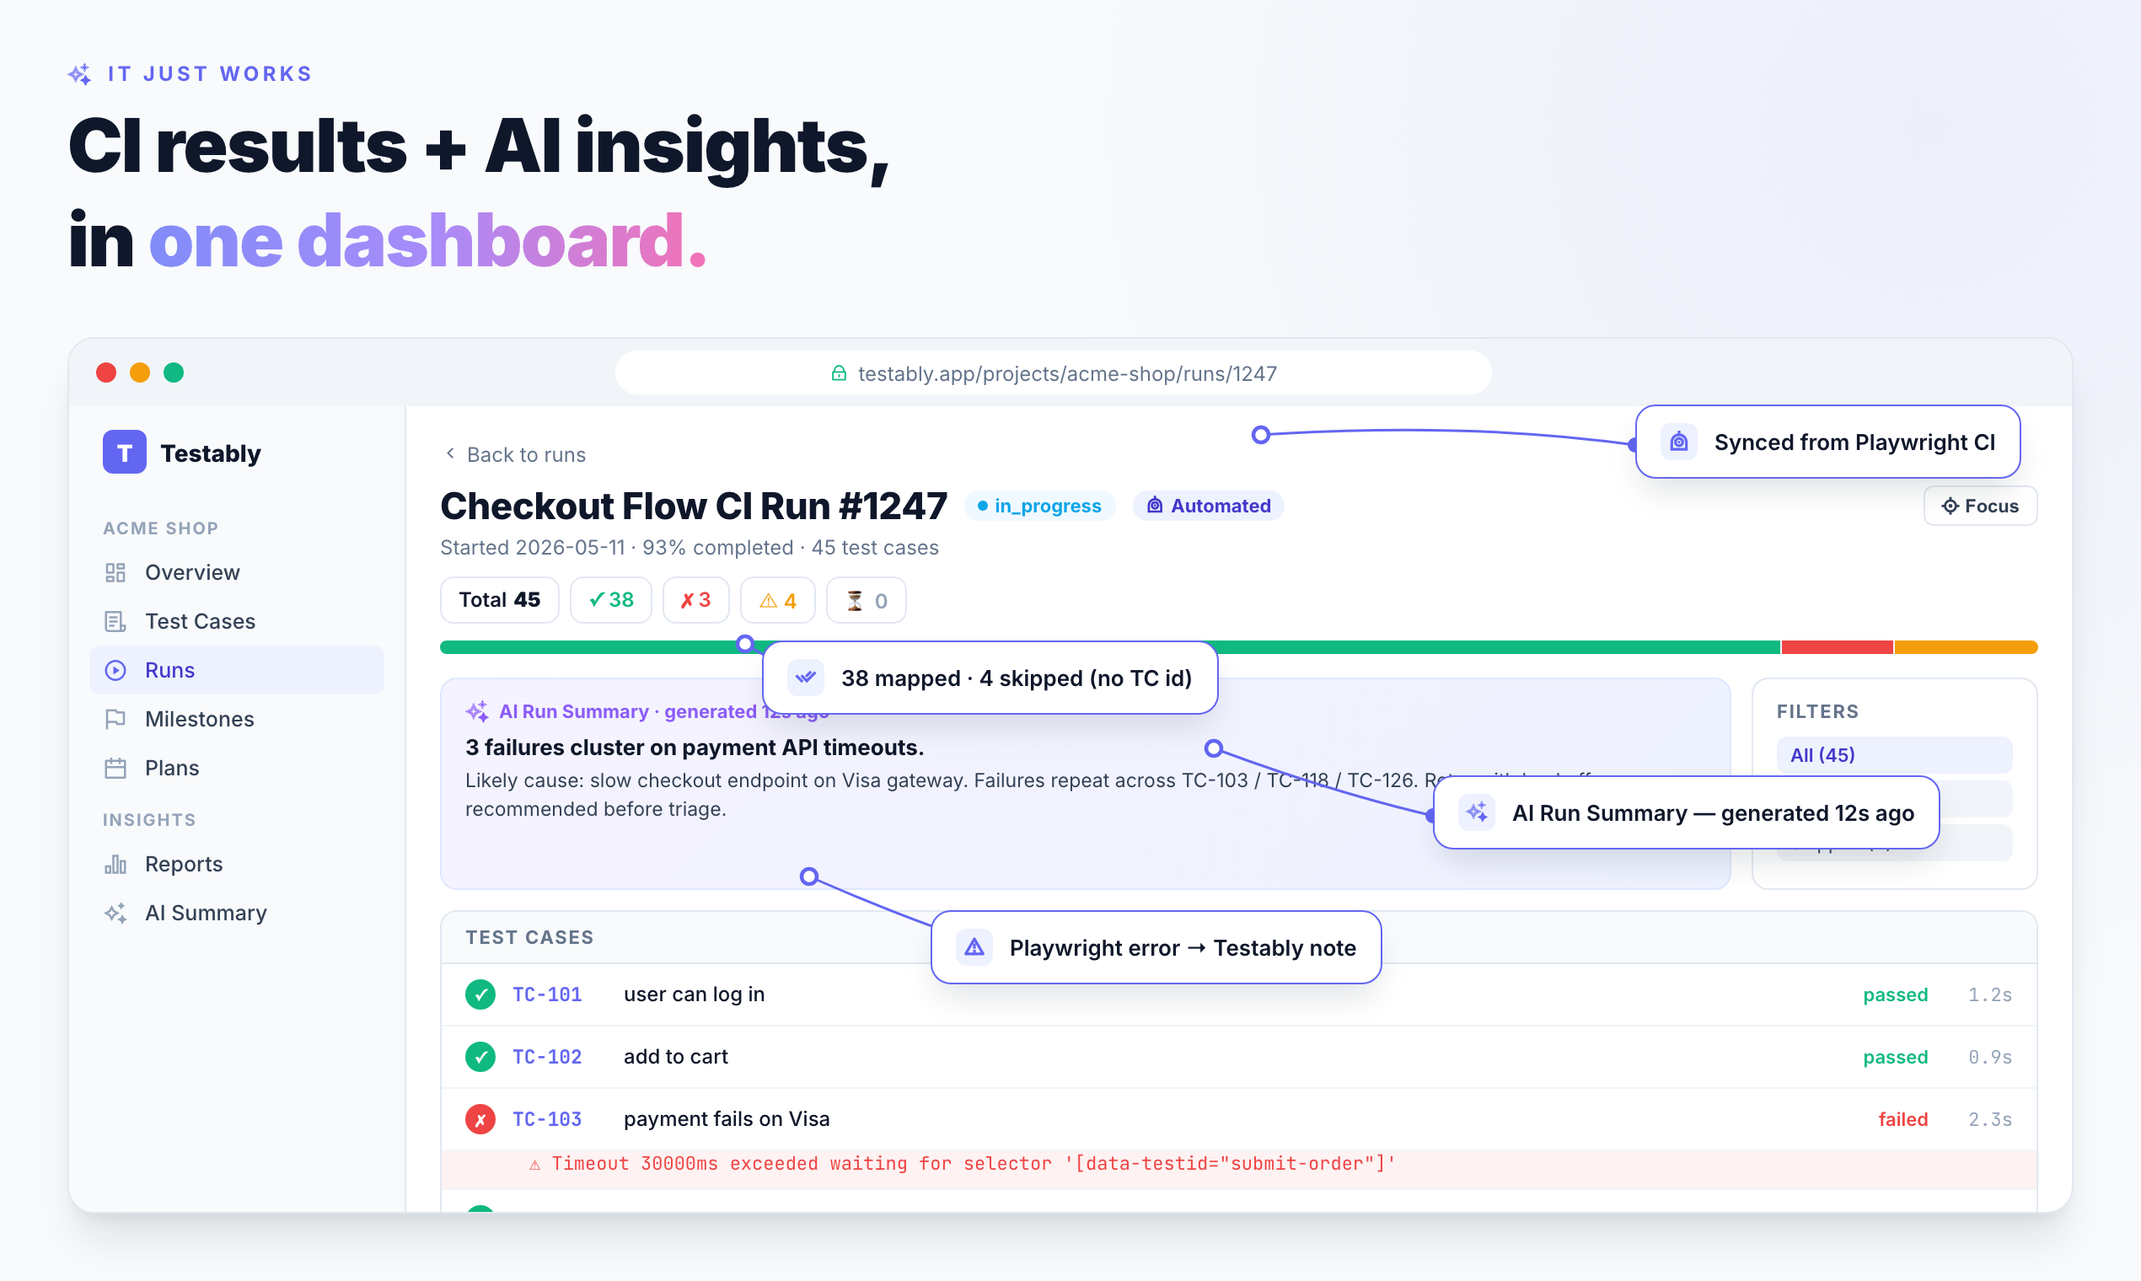
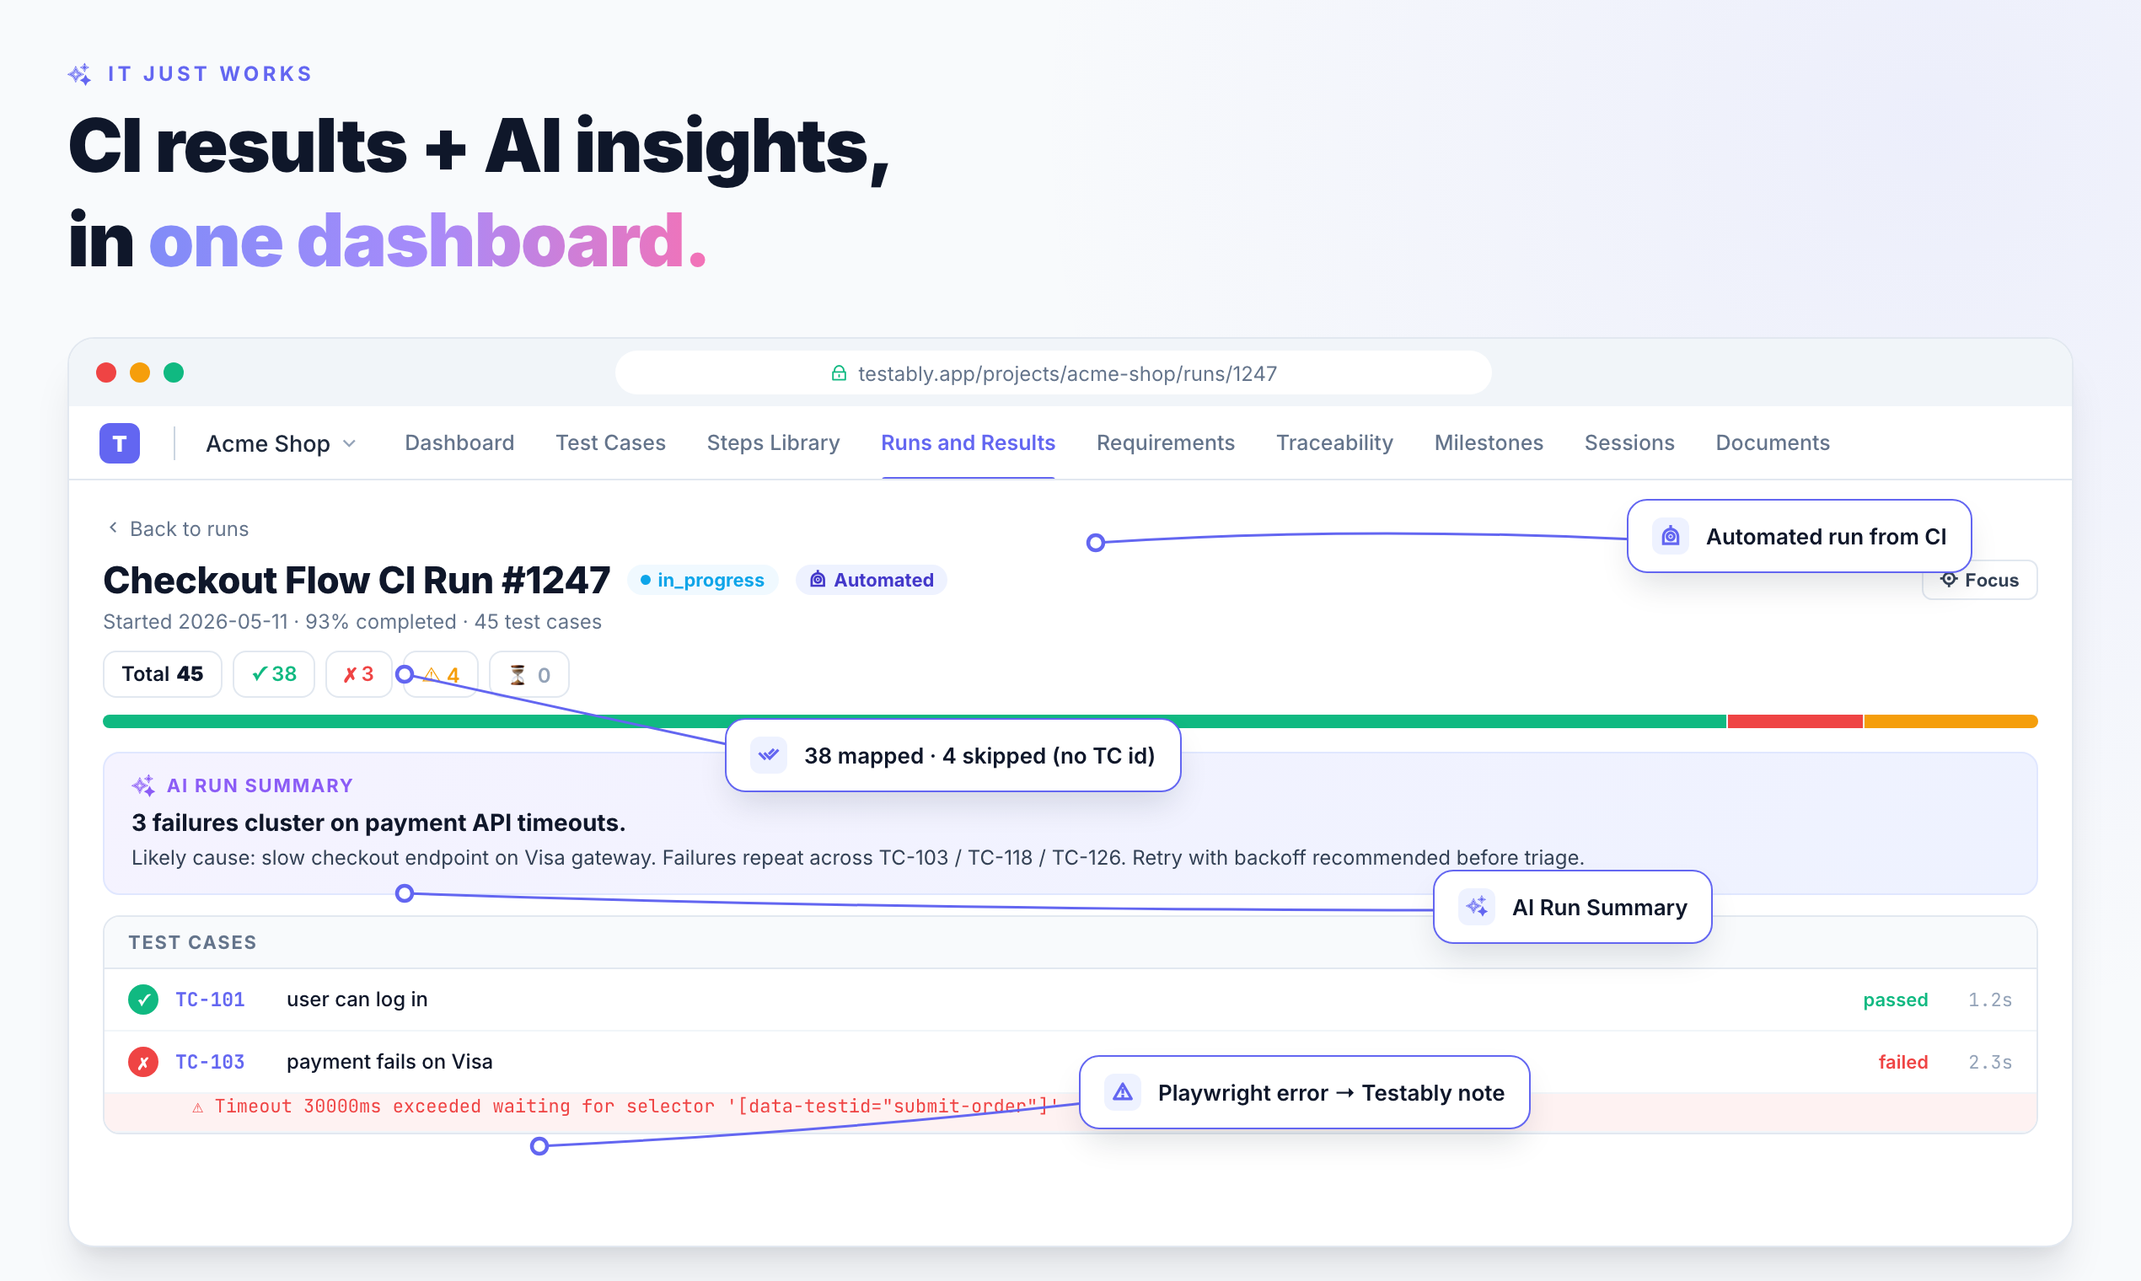
fix(f028): 런칭 이미지 허위 표현 수정 (v2)
실제 제품 감사 결과 반영. 이미지 audit 기준:
- ✅ 13 항목 실제 존재
- ⚠ 4 부분 일치
- ❌ 5 허위 표현 → 이번 커밋에서 수정

Image 1 수정:
- TC-103 row 의 'from CI' 뱃지 제거 (실제 UI 에 없음)

Image 3 전면 재구성:
- Vertical sidebar 삭제 → horizontal top nav 로 변경
  (실제 ProjectHeader.tsx:161-207 의 9개 탭 반영)
- 탭 순서: Dashboard / Test Cases / Steps Library /
  Runs and Results (active) / Requirements / Traceability /
  Milestones / Sessions / Documents
- AI Run Summary 의 'generated 12s ago' 제거
  (DB 저장은 되지만 UI 시간 표시 미구현)
- Filters 카드 삭제 (실제는 select 드롭다운)
- 'Synced from Playwright CI' 콜아웃 → 'Automated run from CI'
  (실제 auto-pill 텍스트 'Automated' 와 일치)

2026-05-11 런칭 거짓 광고 리스크 제거.

diff --git a/marketing/launch-images-f028/image3.html b/marketing/launch-images-f028/image3.html
@@ -6,7 +6,7 @@
 <link rel="preconnect" href="https://fonts.googleapis.com" />
 <link rel="preconnect" href="https://fonts.gstatic.com" crossorigin />
 <link
-  href="https://fonts.googleapis.com/css2?family=Inter:wght@400;500;600;700;800;900&family=JetBrains+Mono:wght@400;500;700&display=swap"
+  href="https://fonts.googleapis.com/css2?family=Inter:wght@400;500;600;700;800;900&family=JetBrains+Mono:wght@400;500;700&family=Pacifico&display=swap"
   rel="stylesheet"
 />
 <link
@@ -86,7 +86,7 @@
   /* Browser window */
   .window {
     position: absolute; left: 40px; top: 200px;
-    width: 1190px; height: 520px;
+    width: 1190px; height: 540px;
     background: var(--white);
     border: 1px solid var(--slate-200);
     border-radius: 16px;
@@ -113,44 +113,60 @@
   }
   .url-pill i { color: var(--emerald-500); font-size: 11px; }
 
-  /* Dashboard body — 2 column: sidebar + main */
-  .app { display: flex; height: 480px; }
-  .sidebar {
-    width: 200px; background: var(--slate-50);
-    border-right: 1px solid var(--slate-200);
-    padding: 14px 12px;
-    flex-shrink: 0;
+  /* Horizontal top nav (matches ProjectHeader) */
+  .topnav {
+    height: 44px; background: var(--white);
+    border-bottom: 1px solid var(--slate-200);
+    display: flex; align-items: stretch;
+    padding: 0 18px;
+    font-size: 13px;
   }
-  .sb-logo {
+  .nav-logo {
     display: flex; align-items: center; gap: 8px;
-    margin-bottom: 16px;
-    padding: 0 8px;
+    padding-right: 10px;
   }
-  .sb-logo-mark {
-    width: 26px; height: 26px; border-radius: 6px;
+  .nav-logo-mark {
+    width: 24px; height: 24px; border-radius: 6px;
     background: var(--indigo-500);
-    color: var(--white); font-weight: 900; font-size: 14px;
+    color: var(--white); font-weight: 900; font-size: 13px;
     display: flex; align-items: center; justify-content: center;
   }
-  .sb-logo-text { font-weight: 800; font-size: 14px; color: var(--slate-900); }
-  .sb-section {
-    font-size: 10px; font-weight: 700; letter-spacing: 0.1em;
-    color: var(--slate-400); text-transform: uppercase;
-    padding: 10px 8px 6px;
+  .nav-divider {
+    width: 1px; height: 20px; background: var(--slate-300);
+    align-self: center; margin: 0 10px;
   }
-  .sb-item {
-    display: flex; align-items: center; gap: 10px;
-    padding: 7px 8px;
+  .nav-project {
+    display: flex; align-items: center; gap: 4px;
+    padding: 0 8px; margin-right: 6px;
+    font-size: 13.5px; font-weight: 500; color: var(--slate-800);
+    align-self: center; height: 28px;
     border-radius: 6px;
-    font-size: 12.5px; font-weight: 500; color: var(--slate-700);
   }
-  .sb-item i { font-size: 15px; color: var(--slate-400); }
-  .sb-item.active {
-    background: var(--indigo-50); color: var(--indigo-700);
+  .nav-project i { color: var(--slate-400); font-size: 14px; }
+  .nav-tabs {
+    display: flex; align-items: stretch; flex: 1;
+    overflow: hidden;
   }
-  .sb-item.active i { color: var(--indigo-500); }
+  .nav-tab {
+    position: relative;
+    display: inline-flex; align-items: center;
+    padding: 0 12px;
+    font-size: 12.5px; font-weight: 500; color: var(--slate-500);
+    height: 100%;
+    white-space: nowrap;
+  }
+  .nav-tab.active {
+    color: var(--indigo-500); font-weight: 600;
+  }
+  .nav-tab.active::after {
+    content: ""; position: absolute;
+    left: 12px; right: 12px; bottom: -1px;
+    height: 2px; background: var(--indigo-500);
+    border-radius: 2px 2px 0 0;
+  }
 
-  .main { flex: 1; padding: 16px 20px; overflow: hidden; }
+  /* Main content area */
+  .main { padding: 16px 20px; height: 456px; overflow: hidden; }
   .back {
     display: inline-flex; align-items: center; gap: 4px;
     font-size: 12px; color: var(--slate-500); margin-bottom: 10px;
@@ -185,6 +201,7 @@
     border-radius: 6px;
     font-size: 11px; font-weight: 600; color: var(--slate-700);
     background: var(--white);
+    display: inline-flex; align-items: center; gap: 4px;
   }
   .run-meta {
     font-size: 12px; color: var(--slate-500); margin-bottom: 10px;
@@ -211,48 +228,31 @@
   .progress .sf { background: var(--red-500); width: 7%; }
   .progress .sb { background: var(--amber-500); width: 9%; }
 
-  .two-col { display: flex; gap: 12px; }
+  /* AI Run Summary card — full width */
   .ai-card {
-    flex: 1; background: linear-gradient(135deg, #f5f3ff 0%, #eef2ff 100%);
+    background: linear-gradient(135deg, #f5f3ff 0%, #eef2ff 100%);
     border: 1px solid var(--indigo-100);
     border-radius: 10px;
-    padding: 12px 14px;
+    padding: 12px 16px;
+    margin-bottom: 12px;
   }
   .ai-head {
     display: flex; align-items: center; gap: 6px;
     font-size: 11px; font-weight: 700; color: var(--violet-500);
     margin-bottom: 6px;
+    text-transform: uppercase; letter-spacing: 0.08em;
   }
   .ai-head i { font-size: 14px; }
   .ai-title {
-    font-size: 13px; font-weight: 700; color: var(--slate-900);
+    font-size: 14px; font-weight: 700; color: var(--slate-900);
     margin-bottom: 4px;
   }
   .ai-body {
-    font-size: 11.5px; color: var(--slate-700); line-height: 17px;
+    font-size: 12px; color: var(--slate-700); line-height: 18px;
   }
-  .filter-card {
-    width: 170px;
-    background: var(--white);
-    border: 1px solid var(--slate-200);
-    border-radius: 10px;
-    padding: 12px 14px;
-  }
-  .filter-head {
-    font-size: 11px; font-weight: 700; color: var(--slate-500);
-    text-transform: uppercase; letter-spacing: 0.08em;
-    margin-bottom: 8px;
-  }
-  .filter-chip {
-    display: block; padding: 4px 8px; background: var(--slate-100);
-    border-radius: 6px; font-size: 11px; color: var(--slate-700);
-    margin-bottom: 4px;
-  }
-  .filter-chip.active { background: var(--indigo-50); color: var(--indigo-700); font-weight: 600; }
 
   /* Test case list */
   .tc-list {
-    margin-top: 12px;
     border: 1px solid var(--slate-200); border-radius: 10px;
     overflow: hidden;
     background: var(--white);
@@ -349,91 +349,74 @@
       </span>
       <span style="width:72px"></span>
     </div>
-    <div class="app">
-      <div class="sidebar">
-        <div class="sb-logo">
-          <div class="sb-logo-mark">T</div>
-          <div class="sb-logo-text">Testably</div>
-        </div>
-        <div class="sb-section">Acme Shop</div>
-        <div class="sb-item"><i class="ri-dashboard-line"></i>Overview</div>
-        <div class="sb-item"><i class="ri-file-list-3-line"></i>Test Cases</div>
-        <div class="sb-item active"><i class="ri-play-circle-line"></i>Runs</div>
-        <div class="sb-item"><i class="ri-flag-line"></i>Milestones</div>
-        <div class="sb-item"><i class="ri-calendar-line"></i>Plans</div>
-        <div class="sb-section">Insights</div>
-        <div class="sb-item"><i class="ri-bar-chart-2-line"></i>Reports</div>
-        <div class="sb-item"><i class="ri-sparkling-2-line"></i>AI Summary</div>
+
+    <!-- Horizontal top nav (matches real ProjectHeader layout) -->
+    <div class="topnav">
+      <div class="nav-logo">
+        <div class="nav-logo-mark">T</div>
       </div>
-      <div class="main">
-        <div class="back"><i class="ri-arrow-left-s-line"></i>Back to runs</div>
-        <div class="run-hdr">
-          <div class="run-name">Checkout Flow CI Run #1247</div>
-          <span class="status-pill">in_progress</span>
-          <span class="auto-pill"><i class="ri-robot-line"></i>Automated</span>
-          <button class="focus-btn"><i class="ri-focus-3-line"></i> Focus</button>
-        </div>
-        <div class="run-meta">Started 2026-05-11 · 93% completed · 45 test cases</div>
-        <div class="kpi-row">
-          <span class="kpi">Total <strong>45</strong></span>
-          <span class="kpi p">✓ 38</span>
-          <span class="kpi f">✗ 3</span>
-          <span class="kpi b">⚠ 4</span>
-          <span class="kpi u">⏳ 0</span>
-        </div>
-        <div class="progress"><span class="sp"></span><span class="sf"></span><span class="sb"></span></div>
+      <div class="nav-divider"></div>
+      <div class="nav-project">Acme Shop <i class="ri-arrow-down-s-line"></i></div>
+      <div class="nav-tabs">
+        <div class="nav-tab">Dashboard</div>
+        <div class="nav-tab">Test Cases</div>
+        <div class="nav-tab">Steps Library</div>
+        <div class="nav-tab active">Runs and Results</div>
+        <div class="nav-tab">Requirements</div>
+        <div class="nav-tab">Traceability</div>
+        <div class="nav-tab">Milestones</div>
+        <div class="nav-tab">Sessions</div>
+        <div class="nav-tab">Documents</div>
+      </div>
+    </div>
 
-        <div class="two-col">
-          <div class="ai-card">
-            <div class="ai-head"><i class="ri-sparkling-2-line"></i>AI Run Summary · generated 12s ago</div>
-            <div class="ai-title">3 failures cluster on payment API timeouts.</div>
-            <div class="ai-body">Likely cause: slow checkout endpoint on Visa gateway. Failures repeat across TC-103 / TC-118 / TC-126. Retry with backoff recommended before triage.</div>
-          </div>
-          <div class="filter-card">
-            <div class="filter-head">Filters</div>
-            <div class="filter-chip active">All (45)</div>
-            <div class="filter-chip">Failed (3)</div>
-            <div class="filter-chip">Skipped (4)</div>
-          </div>
-        </div>
+    <div class="main">
+      <div class="back"><i class="ri-arrow-left-s-line"></i>Back to runs</div>
+      <div class="run-hdr">
+        <div class="run-name">Checkout Flow CI Run #1247</div>
+        <span class="status-pill">in_progress</span>
+        <span class="auto-pill"><i class="ri-robot-line"></i>Automated</span>
+        <button class="focus-btn"><i class="ri-focus-3-line"></i> Focus</button>
+      </div>
+      <div class="run-meta">Started 2026-05-11 · 93% completed · 45 test cases</div>
+      <div class="kpi-row">
+        <span class="kpi">Total <strong>45</strong></span>
+        <span class="kpi p">✓ 38</span>
+        <span class="kpi f">✗ 3</span>
+        <span class="kpi b">⚠ 4</span>
+        <span class="kpi u">⏳ 0</span>
+      </div>
+      <div class="progress"><span class="sp"></span><span class="sf"></span><span class="sb"></span></div>
 
-        <div class="tc-list">
-          <div class="tc-list-hdr">Test cases</div>
-          <div class="tc-row">
-            <span class="tc-icon pass">✓</span>
-            <span class="tc-id">TC-101</span>
-            <span class="tc-title">user can log in</span>
-            <span class="tc-status pass">passed</span>
-            <span class="tc-time">1.2s</span>
-          </div>
-          <div class="tc-row">
-            <span class="tc-icon pass">✓</span>
-            <span class="tc-id">TC-102</span>
-            <span class="tc-title">add to cart</span>
-            <span class="tc-status pass">passed</span>
-            <span class="tc-time">0.9s</span>
-          </div>
-          <div class="tc-row">
-            <span class="tc-icon fail">✗</span>
-            <span class="tc-id">TC-103</span>
-            <span class="tc-title">payment fails on Visa</span>
-            <span class="tc-status fail">failed</span>
-            <span class="tc-time">2.3s</span>
-          </div>
-          <div class="tc-error">⚠ Timeout 30000ms exceeded waiting for selector '[data-testid="submit-order"]'</div>
-          <div class="tc-row">
-            <span class="tc-icon pass">✓</span>
-            <span class="tc-id">TC-104</span>
-            <span class="tc-title">receipt rendered</span>
-            <span class="tc-status pass">passed</span>
-            <span class="tc-time">1.1s</span>
-          </div>
+      <!-- AI Run Summary (full width, no "generated Xs ago") -->
+      <div class="ai-card">
+        <div class="ai-head"><i class="ri-sparkling-2-line"></i>AI Run Summary</div>
+        <div class="ai-title">3 failures cluster on payment API timeouts.</div>
+        <div class="ai-body">Likely cause: slow checkout endpoint on Visa gateway. Failures repeat across TC-103 / TC-118 / TC-126. Retry with backoff recommended before triage.</div>
+      </div>
+
+      <div class="tc-list">
+        <div class="tc-list-hdr">Test cases</div>
+        <div class="tc-row">
+          <span class="tc-icon pass">✓</span>
+          <span class="tc-id">TC-101</span>
+          <span class="tc-title">user can log in</span>
+          <span class="tc-status pass">passed</span>
+          <span class="tc-time">1.2s</span>
         </div>
+        <div class="tc-row">
+          <span class="tc-icon fail">✗</span>
+          <span class="tc-id">TC-103</span>
+          <span class="tc-title">payment fails on Visa</span>
+          <span class="tc-status fail">failed</span>
+          <span class="tc-time">2.3s</span>
+        </div>
+        <div class="tc-error">⚠ Timeout 30000ms exceeded waiting for selector '[data-testid="submit-order"]'</div>
       </div>
     </div>
   </div>
 
-  <!-- Annotation overlays (leaders first, bubbles on top) -->
+  <!-- Annotation overlays -->
   <!-- Leader lines (SVG) -->
   <svg class="leader" style="left:0;top:0;width:1270px;height:760px" viewBox="0 0 1270 760">
     <defs>
@@ -444,36 +427,36 @@
         <circle cx="5" cy="5" r="3" fill="#FFFFFF" stroke="#6366F1" stroke-width="1.5" />
       </marker>
     </defs>
-    <!-- (1) 🤖 Synced from Playwright CI  → Automated pill on run header -->
-    <path d="M 970 264 Q 870 250 748 258" stroke="#6366F1" stroke-width="1.5" fill="none"
+    <!-- (1) Automated badge → run header auto-pill (approximately x=620, y=324) -->
+    <path d="M 970 320 Q 800 312 650 322" stroke="#6366F1" stroke-width="1.5" fill="none"
           marker-start="url(#dot)" marker-end="url(#ring)" />
-    <!-- (2) 38 mapped / 4 skipped → KPI row -->
-    <path d="M 500 404 Q 470 400 442 382" stroke="#6366F1" stroke-width="1.5" fill="none"
+    <!-- (2) KPI row mapping → KPI position (approximately x=215, y=400) -->
+    <path d="M 470 450 Q 380 430 240 400" stroke="#6366F1" stroke-width="1.5" fill="none"
           marker-start="url(#dot)" marker-end="url(#ring)" />
-    <!-- (3) Playwright error → Testably note → tc-error band -->
-    <path d="M 600 564 Q 560 555 480 520" stroke="#6366F1" stroke-width="1.5" fill="none"
+    <!-- (3) Playwright error → tc-error band (approximately x=280, y=680) -->
+    <path d="M 680 650 Q 520 670 320 680" stroke="#6366F1" stroke-width="1.5" fill="none"
           marker-start="url(#dot)" marker-end="url(#ring)" />
-    <!-- (4) AI Run Summary → AI card header -->
-    <path d="M 850 484 Q 790 470 720 444" stroke="#6366F1" stroke-width="1.5" fill="none"
+    <!-- (4) AI Run Summary → AI card (approximately x=150, y=530) -->
+    <path d="M 890 540 Q 520 540 240 530" stroke="#6366F1" stroke-width="1.5" fill="none"
           marker-start="url(#dot)" marker-end="url(#ring)" />
   </svg>
 
   <!-- Bubbles -->
-  <div class="callout" style="left:970px;top:240px;">
+  <div class="callout" style="left:965px;top:296px;">
     <span class="icon-box"><i class="ri-robot-line"></i></span>
-    Synced from Playwright CI
+    Automated run from CI
   </div>
-  <div class="callout" style="left:452px;top:380px;">
+  <div class="callout" style="left:430px;top:426px;">
     <span class="icon-box"><i class="ri-check-double-line"></i></span>
     38 mapped · 4 skipped (no TC id)
   </div>
-  <div class="callout" style="left:552px;top:540px;">
+  <div class="callout" style="left:640px;top:626px;">
     <span class="icon-box"><i class="ri-alert-line"></i></span>
     Playwright error → Testably note
   </div>
-  <div class="callout" style="left:850px;top:460px;">
+  <div class="callout" style="left:850px;top:516px;">
     <span class="icon-box"><i class="ri-sparkling-2-line"></i></span>
-    AI Run Summary — generated 12s ago
+    AI Run Summary
   </div>
 </div>
 </body>

diff --git a/marketing/launch-images-f028/image1.html b/marketing/launch-images-f028/image1.html
@@ -310,7 +310,7 @@
       </div>
       <div class="tc-row"><span class="icon pass"></span><span class="tc-id">TC-101</span><span class="tc-title">user can log in</span><span class="tc-time">1.2s</span></div>
       <div class="tc-row"><span class="icon pass"></span><span class="tc-id">TC-102</span><span class="tc-title">add to cart</span><span class="tc-time">0.9s</span></div>
-      <div class="tc-row"><span class="icon fail"></span><span class="tc-id">TC-103</span><span class="tc-title">payment fails on Visa</span><span class="from-ci">from CI</span><span class="tc-time">2.3s</span></div>
+      <div class="tc-row"><span class="icon fail"></span><span class="tc-id">TC-103</span><span class="tc-title">payment fails on Visa</span><span class="tc-time">2.3s</span></div>
       <div class="tc-row"><span class="icon pass"></span><span class="tc-id">TC-104</span><span class="tc-title">receipt rendered</span><span class="tc-time">1.1s</span></div>
     </div>
   </div>
